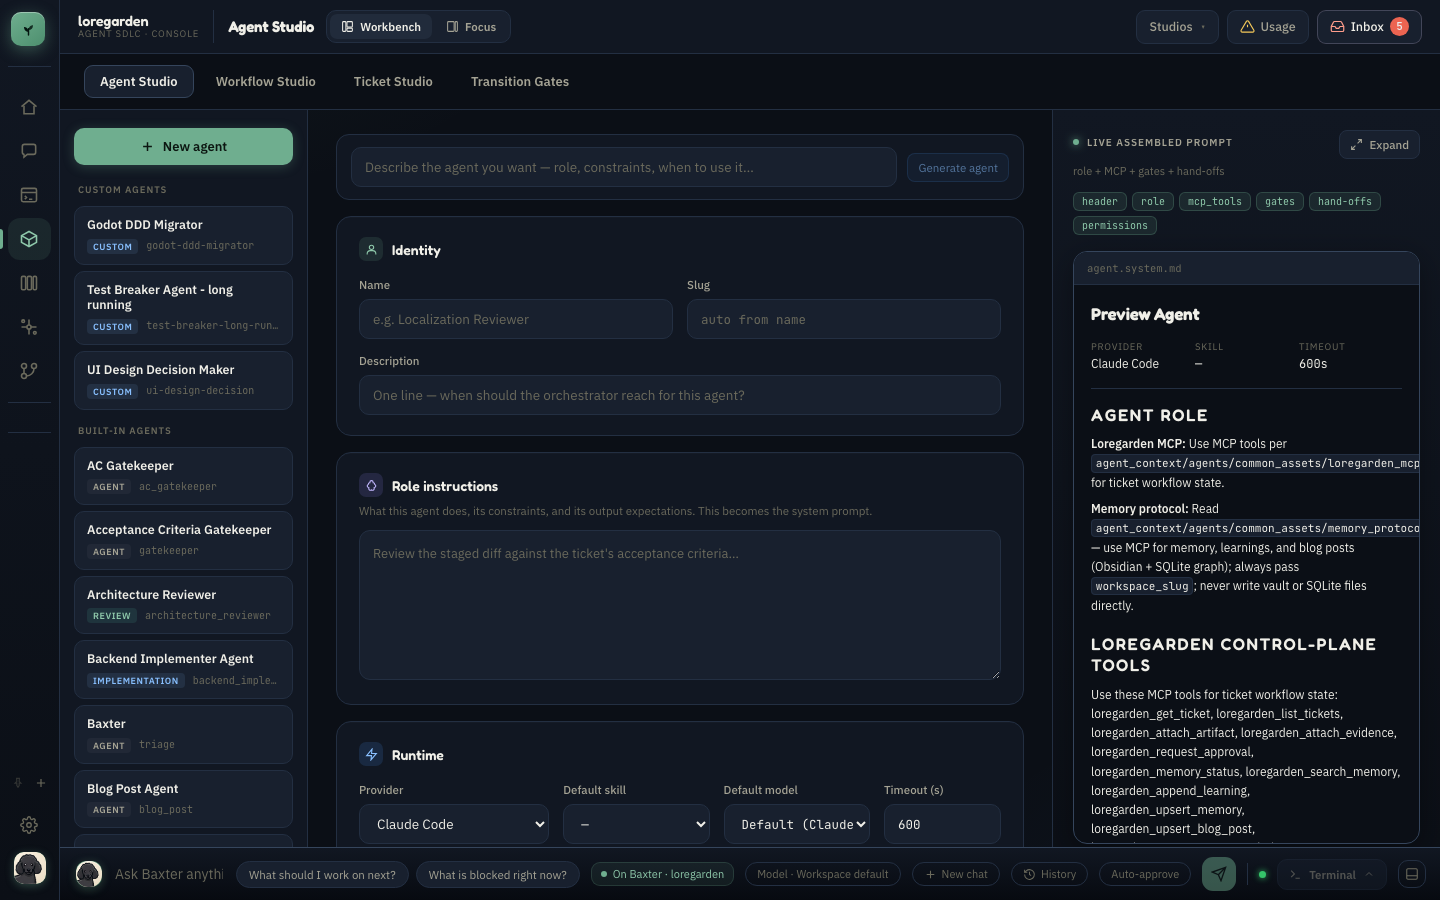
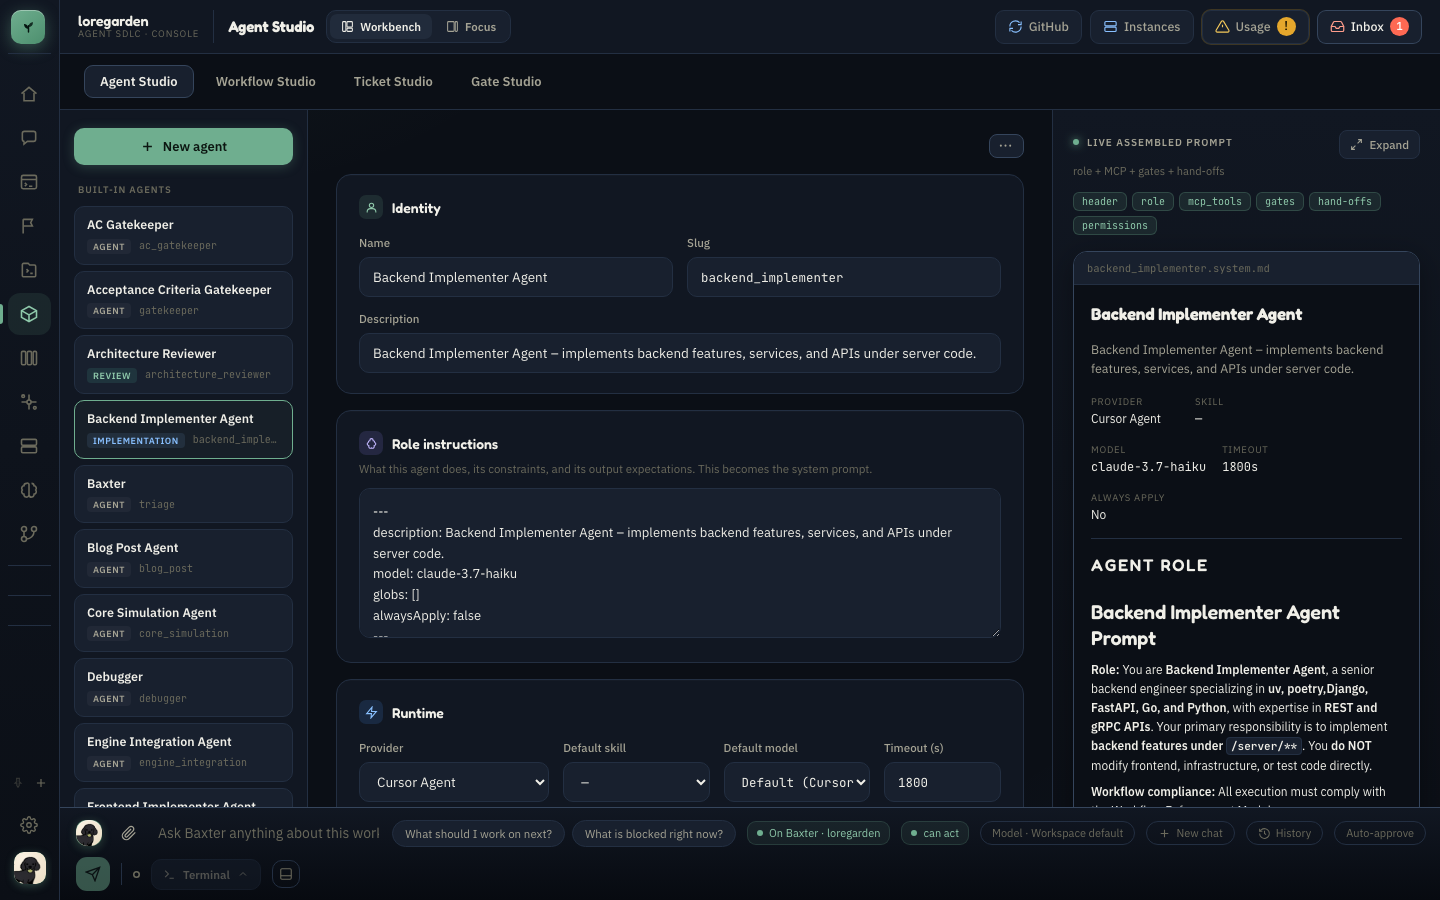
docs(readme): bring the README and screenshots up to date
Python 3.11+ and the current Node engines; capabilities added since
September (initiatives, gates and Gate Studio, capacity ledger, monitor,
GitHub issue sync, instances, memory graph); task sandbox, parallel
server tests, and the workspace installers. Screenshots re-captured at
1440x900 from the seeded sandbox (synthetic data, no live tickets or
local paths), plus a new initiative plan shot.

diff --git a/README.md b/README.md
@@ -9,7 +9,7 @@ Loregarden is an Agent SDLC IDE: a local control plane for orchestrating multi-a
 | Layer | Stack | Role |
 |-------|-------|------|
 | **Control plane** | FastAPI + SQLModel + SQLite | Tickets, workflows, runs, approvals, memory, and MCP |
-| **IDE shell** | React 19 + TypeScript 6 + Vite 8 + Zustand | Home, ticket studio, queue, agent studio, approvals, terminal, and composed views |
+| **IDE shell** | React 19 + TypeScript 6 + Vite 8 + Zustand | Home board, ticket console, initiatives, queue, Baxter chat, Studio, memory, instances, and composed views |
 | **Desktop shell** | Tauri 2 | Native packaging for the React frontend and FastAPI sidecar |
 | **Agent runtime** | Local, Claude Code, Cursor, Codex, LM Studio, and OpenCode adapters | Executes agent turns and bridges permission requests to the approval inbox |
 | **Workflow system** | Versioned SQLite records plus YAML orchestration profiles | Stores live agent/workflow definitions and controls gates, Git automation, and run policy |
@@ -20,13 +20,18 @@ The database is the source of truth for tickets, workflow templates, agent defin
 
 - Ticket planning and execution through configurable, versioned multi-agent workflows
 
-  ![Ticket console showing a diff and workspace tree](docs/screenshots/console.png)
+  ![Ticket console showing a run's stage timeline beside the workspace tree](docs/screenshots/console.png)
 
 - Concurrent runs isolated in Git worktrees, with optional commit, push, pull-request, merge, and conflict-resolution automation
 
   ![Parallel execution queue with three worktree lanes](docs/screenshots/queue.png)
 
+- Initiatives: a cross-workspace layer above milestones, with a dependency-graph planning page, suggested sprints, and an autopilot that paces tickets into the queue
+
+  ![Initiative plan with a milestone schedule and the planning agent](docs/screenshots/initiatives.png)
+
 - Human approval gates and permission bridging for supervised CLI agents
+- Transition gates (lint, organization, silent-failure, UX-state, theme) that run on every stage handoff, with Gate Studio to see and edit them
 - Baxter workspace, ticket, and branch chat backed by the live control plane
 - Agent and workflow editing in Studio with version history and restore
 
@@ -35,13 +40,17 @@ The database is the source of truth for tickets, workflow templates, agent defin
 - Flex-grid and canvas views composed from reusable IDE panels
 - MCP access over HTTP, stdio, or the in-process `loregarden` CLI
 - Local run accounting plus Claude, Cursor, and Codex usage visibility
-- Optional Obsidian and SQLite-backed workspace memory
+- A host and Docker capacity ledger that queues agent runs and gates so concurrent work does not overload the machine
+- A run monitor that turns thrashing, stalled, and drifted runs into tickets
+- Two-way sync between tickets and GitHub issues
+- Instances: launch, inspect, and stop branch servers and clients per workspace, from the UI or over MCP
+- A memory graph of learnings and knowledge, with a Memory page to browse it and an optional Obsidian export
 
 ## Prerequisites
 
 - [uv](https://docs.astral.sh/uv/getting-started/installation/) (Python package manager)
-- Node.js 20.19+ or 22.12+ and npm
-- Python 3.10+
+- Node.js 20.19+, 22.13+, or 24+ and npm
+- Python 3.11+
 - [Task](https://taskfile.dev/installation/) for the convenience commands below (the underlying scripts can also be run directly)
 - [Rust](https://www.rust-lang.org/tools/install) only for desktop development and packaging
 
@@ -61,6 +70,10 @@ task server   # FastAPI at http://127.0.0.1:8000
 task client   # Vite at http://localhost:5173
 ```
 
+`task dev` checks your Claude Code login first, so the prompt is not buried under Vite's output.
+
+To try a change against a copy of your real data without touching the live database, run `task sandbox` (server on :8123, client on :5174). Without a live database it seeds a production-shaped one instead (`task sandbox -- --seeded`).
+
 The equivalent scripts are `./scripts/dev-server.sh` and `./scripts/dev-client.sh`. The backend script creates its virtual environment and synchronizes Python dependencies; the frontend script expects `client/node_modules/` to be installed already.
 
 Health check: `curl http://127.0.0.1:8000/health`
@@ -74,7 +87,7 @@ Health check: `curl http://127.0.0.1:8000/health`
 
 ```bash
 # Backend
-server/.venv/bin/python -m pytest server/tests/ -q
+server/.venv/bin/python -m pytest server/tests/ -q -n auto   # serial takes ~an hour
 
 # Frontend
 cd client && npm test
@@ -106,6 +119,17 @@ task cli -- mcp call loregarden_get_ticket ticket_id=<ticket-uuid>
 ```
 
 An installed package exposes the same interface as `loregarden mcp ...` and `loregarden db ...`.
+
+### Other workspaces
+
+Loregarden can drive other repositories. Two idempotent installers carry its gates and tool docs into a workspace (`--check` reports drift without writing, `--all` covers every registered workspace):
+
+```bash
+task workspace:hooks -- <workspace-root>   # pre-commit gates
+task workspace:docs  -- <workspace-root>   # control-plane section in AGENTS.md
+```
+
+`task workspace:hooks:pr` lands a refreshed hook block as one PR per repo instead of editing checkouts in place. See [CLAUDE.md](CLAUDE.md) for details.
 
 ## Desktop app
 
@@ -148,8 +172,8 @@ Settings use the `LOREGARDEN_` environment-variable prefix and can be placed in 
 | `LOREGARDEN_ALLOW_PERMISSION_BYPASS` | `false` | Development-only bypass for Claude permission prompts |
 | `LOREGARDEN_MAX_PARALLEL_AGENTS` | `3` | Maximum concurrent agent runs |
 | `LOREGARDEN_LMSTUDIO_BASE_URL` | `http://127.0.0.1:1234/v1` | OpenAI-compatible LM Studio endpoint |
-| `LOREGARDEN_OBSIDIAN_VAULT_DIR` | empty | Optional Obsidian vault used for workspace memory |
-| `LOREGARDEN_MEMORY_SQLITE_URL` | empty | Optional structured-memory SQLite database |
+| `LOREGARDEN_OBSIDIAN_VAULT_DIR` | empty | Optional Obsidian vault the memory graph exports to |
+| `LOREGARDEN_MEMORY_SQLITE_URL` | empty | Memory-graph SQLite database (defaults under the vault when one is set) |
 
 See [server/loregarden/config.py](server/loregarden/config.py) and [scripts/dev-server.sh](scripts/dev-server.sh) for the complete settings and local authentication options.
 
